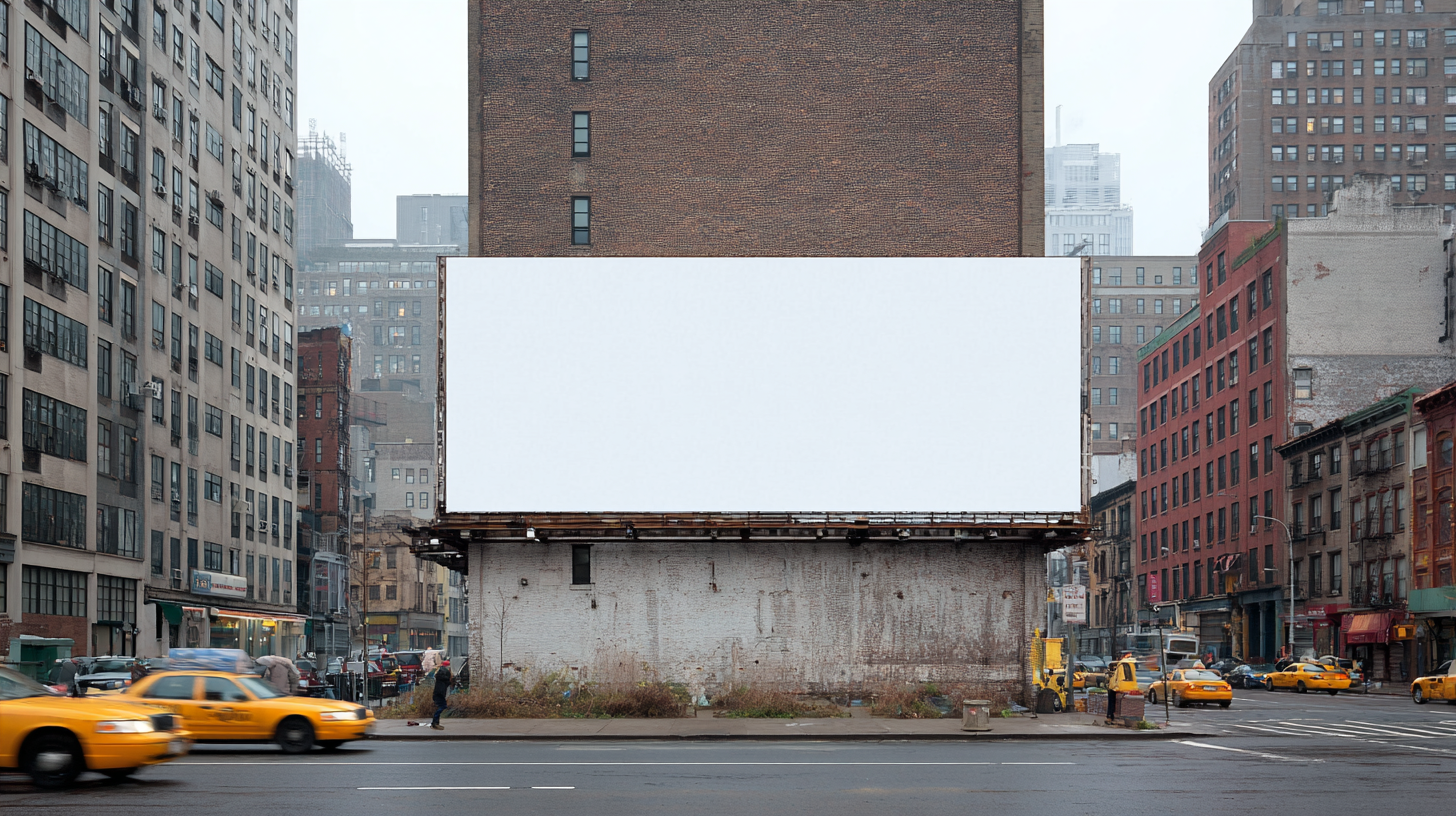
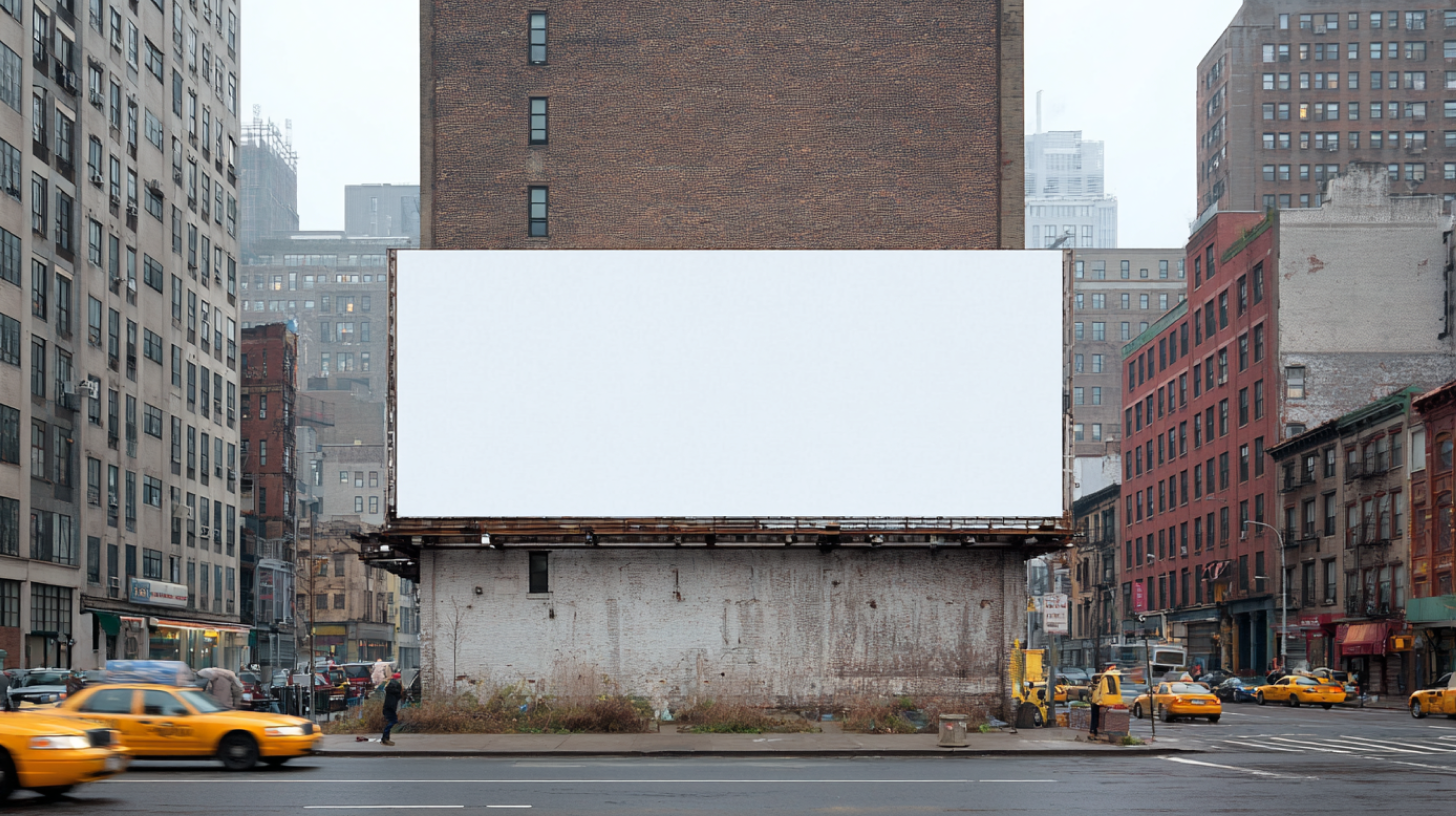
updated mobile image sizing + container

diff --git a/style.css b/style.css
@@ -227,10 +227,10 @@ section {
 }
 
 .preview3-box-billboard {
-    top: 31.5%;
-    left: 30.5%;
-    width: 44%;
-    height: 32%;     
+    top: 30.7%;
+    left: 27.2%;
+    width: 45.8%;
+    height: 32.8%;     
 }
 
 .preview3-box-sidewalk {
@@ -371,17 +371,53 @@ couldn't figure out container queries but will come back to that */
     }
 }
 /* 'zoom' in under 600px */
-@media (width < 600px) {
-    #posterbox {
-        transform: scale(1.6);
-    }
+@media (width < 550px) {
     #image-form {
+        width: 100%;
+        aspect-ratio: 4 / 5;
         overflow: hidden;
+    }
+    #posterbox {
+        width: 100%;
+        height: 100%;
+        display: inline-block;
+    }
+
+    #image {
+        width: 100%;
+        height: 100%;
+        object-fit: cover;
+        display: block;
     }
     #button-flex-first {
         flex-direction: column;
     }
+
+    .preview3-box-subway {
+        top: 24.5%;
+        left: 36%;
+        width: 31%;
+        height: 39.6%;     
+    }
+
+    .preview3-box-billboard {
+        top: 30.7%;
+        left: 1.5%;
+        width: 98%;
+        height: 33%;     
+    }
+
+    .preview3-box-sidewalk {
+        top: 23%;
+        left: 27.5%;
+        width: 49.5%;
+        height: 54.2%;      
+    }   
 }
+
+/* need to center my billboard on mobile */
+
+
 
 /* https://rebeccamdeprey.com/blog/styling-the-html-color-input
 I found this article to help style my input color */
@@ -399,4 +435,9 @@ input[type="text"] {
     border-width: 0.8px;
     padding: calc(var(--spaceS)*0.2);
     width: 100%;
+}
+
+input[type="file"] {
+    inline-size: 100%;
+    white-space: nowrap;
 }
